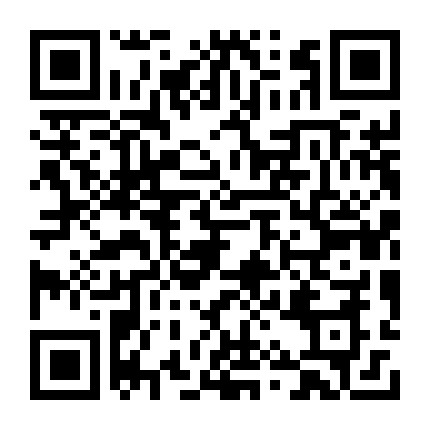
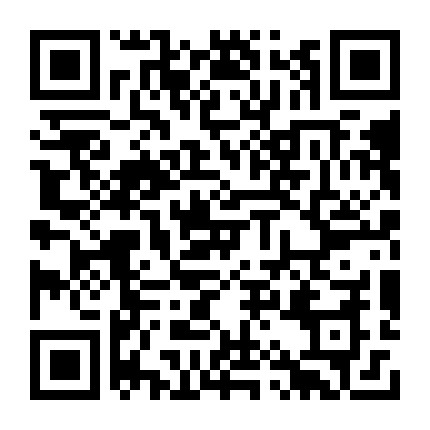
增加杭州湾电材及页面显示修改

diff --git a/Application/Home/View/queue/status.html b/Application/Home/View/queue/status.html
@@ -71,10 +71,12 @@
             </div>
             <div class="warehouse">
                 <div class="warehouse-title">
-                    <h2>等待区</h2>
-                    <span class="wait-total"></span>
+                    <h2>杭州湾电材仓库</h2>
+                    <span class="ck6-total"></span>
                 </div>
-                <div class="status wait-status">
+                <div class="status ck6-queue-status">
+                </div>
+                <div class="status ck6-load-status">
                 </div>
             </div>
         </div>
@@ -245,6 +247,29 @@
                         html_ck5_load += '</svg>';
                     }
                     $(".ck5-load-status").html(html_ck5_load);
+                    //杭州湾电材仓库
+                    let html_ck6_total ='';
+                    let html_ck6_queue = '<div>排队中</div>';
+                    let html_ck6_load = '<div>装车中</div>';
+                    let ck6_total = parseInt(info.ck6Queue) + parseInt(info.ck6Load);
+                    if(ck6_total>=12){
+                        html_ck6_total += '仓库车辆共计 <b style="font-size:x-large;color:red;">'+ck6_total+'</b> 辆';
+                    }else{
+                        html_ck6_total += '仓库车辆共计 <b style="font-size:x-large">'+ck6_total+'</b> 辆';
+                    }
+                    $(".ck6-total").html(html_ck6_total);
+                    for (var i = 0; i < info.ck6Queue; i++) {
+                        html_ck6_queue += '<svg class="icon" aria-hidden="true">';
+                        html_ck6_queue += '<use xlink:href="#icon-car-green"></use>';
+                        html_ck6_queue += '</svg>';
+                    }
+                    $(".ck6-queue-status").html(html_ck6_queue);
+                    for (var i = 0; i < info.ck6Load; i++) {
+                        html_ck6_load += '<svg class="icon" aria-hidden="true">';
+                        html_ck6_load += '<use xlink:href="#icon-car-yellow"></use>';
+                        html_ck6_load += '</svg>';
+                    }
+                    $(".ck6-load-status").html(html_ck6_load);
                     //等待区
                     let html_wait_total ='';
                     let html_wait = '<div style="margin-bottom:10px">铜管|铜带|铜板：'+info.waitCk1+' 辆</div>'

diff --git a/Application/Home/View/queue/index.html b/Application/Home/View/queue/index.html
@@ -10,7 +10,7 @@
     <h1 class="title">仓库车辆排队系统-{$cks[$ck]}</h1>
     <input type="hidden" id="ck" value="{$ck}">
     <div class="marquee">
-        <marquee direction="up" behavior="scroll" scrollamount="3" scrolldelay="0" width="70%" height="600px" loop="-1" bgcolor="#F5F5F5">
+        <marquee direction="up" behavior="scroll" scrollamount="3" scrolldelay="0" width="70%" height="300px" loop="-1" bgcolor="#F5F5F5">
             <ol id="car_list"></ol>
         </marquee>
         <div class="qr-code">
@@ -30,6 +30,28 @@
                 <span>扫描二维码，绑定车辆信息↓</span>
                 <img style="width:100%; height:auto;" src="/Public/img/showqrcode.jpg">
             </div>
+        </div>
+    </div>
+    <div class="instruction">
+        <div class="instruction1">
+            <h5>使用方法一：</h5>
+            <p>如果您预约的是此仓库，打开【预约系统】。</p>
+            <p>使用预约系统右上角扫一扫功能扫描仓库</p>
+            <p>排队二维码，快速排队。</p>
+        </div>
+        <div>
+            <img src="/Public/img/instruction1.png" width="125" height="250">
+        </div>
+    </div>
+    <div class="instruction">
+        <div class="instruction2">
+            <h5>使用方法二：</h5>
+            <p>如果您预约的不是此仓库，请打开【微信】</p>
+            <p>扫一扫功能。</p>
+            <p>扫描仓库排队二维码，填写信息进行排队。</p>
+        </div>
+        <div>
+            <img src="/Public/img/instruction2.jpg" width="125" height="250">
         </div>
     </div>
 </body>
@@ -66,6 +88,16 @@
     }
     #queuing {
         color: tomato;
+    }
+    .instruction {
+        float: left;
+        width: 30%;
+    }
+    .instruction1 {
+        float: left;
+    }
+    .instruction2 {
+        float: left;
     }
 </style>
 

diff --git a/Application/Home/View/Index/index.html b/Application/Home/View/Index/index.html
@@ -15,6 +15,7 @@
         <span><a href="/home/queue?ck=03" target="_blank">「电材」</a></span>
         <span><a href="/home/queue?ck=04" target="_blank">「棒线」</a></span>
         <span><a href="/home/queue?ck=05" target="_blank">「铜排」</a></span>
+        <span><a href="/home/queue?ck=06" target="_blank">「杭州湾电材」</a></span>
         <hr>
         <span>后台入口>></span>
         <span><a href="/home/queue/list?ck=01" target="_blank">「铜管|铜带|铜板」</a></span>
@@ -22,6 +23,7 @@
         <span><a href="/home/queue/list?ck=03" target="_blank">「电材」</a></span>
         <span><a href="/home/queue/list?ck=04" target="_blank">「棒线」</a></span>
         <span><a href="/home/queue/list?ck=05" target="_blank">「铜排」</a></span>
+        <span><a href="/home/queue/list?ck=06" target="_blank">「杭州湾电材」</a></span>
         <span><a href="/home/queue/allList" target="_blank">「全部仓库」</a></span>
         <span><a href="/home/wait/list" target="_blank">「等待区」</a></span>
         <span><a href="http://192.168.1.92:8080/WebReport/ReportServer?reportlet=OA%2FSWFWB%2FOA_SWFWB_CKPD_S3_001_V.cpt" target="_blank">「数据报表」</a></span>

diff --git a/Application/Home/View/queue/alllist.html b/Application/Home/View/queue/alllist.html
@@ -66,8 +66,10 @@
                         <td>电材</td>
                     <elseif condition="$queue.ck eq 04" /> 
                         <td>棒线</td>
-                    <else />
+                    <elseif condition="$queue.ck eq 05" /> 
                         <td>铜排</td>
+                    <else />
+                        <td>杭州湾电材</td>
                     </if>
                 </tr>
             </foreach>

diff --git a/Application/Home/Controller/QueueController.class.php b/Application/Home/Controller/QueueController.class.php
@@ -163,7 +163,7 @@ class QueueController extends Controller {
         $res = $CarNoUid->where('car_no="'.$queue['car_no'].'"')->find();
         if($res){
             $content = urlencode("您好！ 【".$queue['car_no']."】 车主，您现在可以进厂，请尽快前往目标仓库装车。");
-            $url="http://wxpusher.zjiecode.com/api/send/message/?appToken=AT_X3zrNKfXRW8ctWQXvRe36F4FlsEAZWWn&uid=".$res['uid']."&content=".$content;
+            $url="http://wxpusher.zjiecode.com/api/send/message/?appToken=AT_riDOZCE8NwYJqnytEgsdi2b0QXG6UIIg&uid=".$res['uid']."&content=".$content;
             getUrl($url);
         } else {
             $this->ajaxReturn([
@@ -234,26 +234,28 @@ class QueueController extends Controller {
         $carNo = str_replace('I', '1', $carNo);
         $goodsType = implode(',', $type);
 
-        $reserveInfo = postUrl('http://192.168.60.160:8080/jtvms/restzvms043/getReserveInfo.do',json_encode([
-            "RESERVATION_NO"=>'',
-            "WECHATID"=>'',
-            "CAR_LICENSE"=>$carNo
-        ]));
-        if($reserveInfo->code != '90001'){
-            $this->ajaxReturn([
-                'Result' => "0",
-                'Data' => [
-                    'Message' => $reserveInfo->message
-                ]
-            ]);
-        }
-        if($reserveInfo->code == '90001' && $reserveInfo->data->BUSINESS_STATUS != '30' && $reserveInfo->data->BUSINESS_STATUS != '40' && $reserveInfo->data->BUSINESS_STATUS != '50'){
-            $this->ajaxReturn([
-                'Result' => "0",
-                'Data' => [
-                    'Message' => '您的预约状态不正确'
-                ]
-            ]);
+        if($ck != '06') {
+            $reserveInfo = postUrl('http://192.168.60.160:8080/jtvms/restzvms043/getReserveInfo.do',json_encode([
+                "RESERVATION_NO"=>'',
+                "WECHATID"=>'',
+                "CAR_LICENSE"=>$carNo
+            ]));
+            if($reserveInfo->code != '90001'){
+                $this->ajaxReturn([
+                    'Result' => "0",
+                    'Data' => [
+                        'Message' => $reserveInfo->message
+                    ]
+                ]);
+            }
+            if($reserveInfo->code == '90001' && $reserveInfo->data->BUSINESS_STATUS != '30' && $reserveInfo->data->BUSINESS_STATUS != '40' && $reserveInfo->data->BUSINESS_STATUS != '50'){
+                $this->ajaxReturn([
+                    'Result' => "0",
+                    'Data' => [
+                        'Message' => '您的预约状态不正确'
+                    ]
+                ]);
+            }
         }
         $queue = M("Queue");
         $data = $queue->where('car_no='."'$carNo'".' AND states <> 2')->find();
@@ -282,7 +284,9 @@ class QueueController extends Controller {
             $wait = M("Wait");
             $wait->where('car_no='."'$carNo'")->delete();
 
-            $this->updateReserveStatus($carNo,40);
+            if($ck != '06') {
+                $this->updateReserveStatus($carNo,40);
+            }
 
             $this->ajaxReturn([
                 'Result' => "1",
@@ -491,7 +495,7 @@ class QueueController extends Controller {
                 $queue->loaded_at = date("Y-m-d H:i:s");
                 if($res){
                     $content = urlencode("您好！ 【".$data['car_no']."】 车主，您的货物即将准备装车，请尽快将车辆开往发货台。 — ".C('cks')[$data['ck']]."仓库管理中心");
-                    $url="http://wxpusher.zjiecode.com/api/send/message/?appToken=AT_X3zrNKfXRW8ctWQXvRe36F4FlsEAZWWn&uid=".$res['uid']."&content=".$content;
+                    $url="http://wxpusher.zjiecode.com/api/send/message/?appToken=AT_riDOZCE8NwYJqnytEgsdi2b0QXG6UIIg&uid=".$res['uid']."&content=".$content;
                     getUrl($url);
                 }
             } else {
@@ -610,7 +614,11 @@ class QueueController extends Controller {
         $ck = I('ck');
         //生成二维码图片
         $object = new \QRcode();
-        $url=C('domain').'/home/queue/form?timestamp='.time().'&ck='.$ck.'&zt=false';//网址或者是文本内容
+        if($ck == '06'){
+            $url=C('domain').'/home/queue/form?timestamp='.time().'&ck='.$ck.'&zt=true';
+        }else{
+            $url=C('domain').'/home/queue/form?timestamp='.time().'&ck='.$ck.'&zt=false';//网址或者是文本内容
+        }
         $level=3;
         $size=8;
         $errorCorrectionLevel =intval($level) ;//容错级别
@@ -630,12 +638,15 @@ class QueueController extends Controller {
         $ck4Load = $queue->where('ck = "04" and states = 1')->count();
         $ck5Queue = $queue->where('ck = "05" and states = 0')->count();
         $ck5Load = $queue->where('ck = "05" and states = 1')->count();
+        $ck6Queue = $queue->where('ck = "06" and states = 0')->count();
+        $ck6Load = $queue->where('ck = "06" and states = 1')->count();
         $wait = M('Wait');
         $waitCk1 = $wait->where('ck = "01"')->count();
         $waitCk2 = $wait->where('ck = "02"')->count();
         $waitCk3 = $wait->where('ck = "03"')->count();
         $waitCk4 = $wait->where('ck = "04"')->count();
         $waitCk5 = $wait->where('ck = "05"')->count();
+        $waitCk6 = $wait->where('ck = "06"')->count();
 
         $this->ajaxReturn([
             'Result' => "1",
@@ -650,6 +661,8 @@ class QueueController extends Controller {
                 'ck4Load' => $ck4Load,
                 'ck5Queue' => $ck5Queue,
                 'ck5Load' => $ck5Load,
+                'ck6Queue' => $ck6Queue,
+                'ck6Load' => $ck6Load,
                 'waitCk1' => $waitCk1,
                 'waitCk2' => $waitCk2,
                 'waitCk3' => $waitCk3,

diff --git a/Application/Common/Conf/config.php b/Application/Common/Conf/config.php
@@ -5,7 +5,7 @@ return array(
 	'DB_HOST'   => '127.0.0.1', // 服务器地址
 	'DB_NAME'   => 'ckpd', // 数据库名
 	'DB_USER'   => 'root', // 用户名
-	'DB_PWD'    => 'root', // 密码
+	'DB_PWD'    => 'xuexiaoqian', // 密码
 	'DB_PORT'   => 3306, // 端口
 	'DB_PARAMS' =>  array(), // 数据库连接参数
 	'DB_PREFIX' => '', // 数据库表前缀 

diff --git a/Application/Home/Conf/config.php b/Application/Home/Conf/config.php
@@ -7,5 +7,6 @@ return array(
         '03' => '电材',
         '04' => '棒线',
         '05' => '铜排',
+        '06' => '杭州湾电材',
     ]
 );
